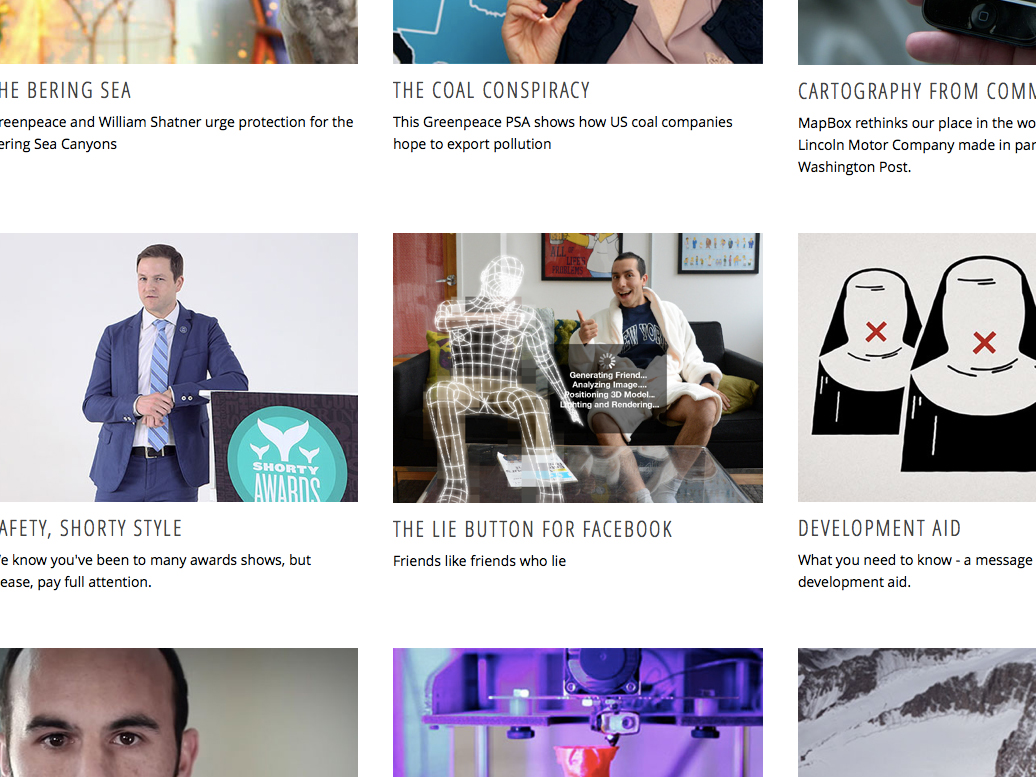
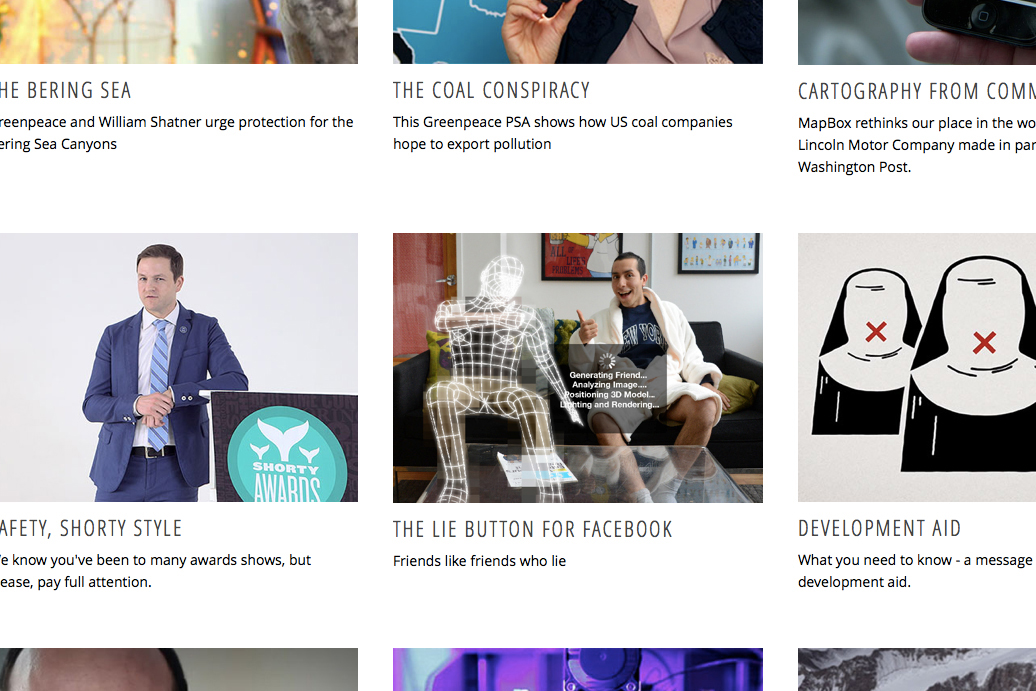
Fixed home-top alignment finally

diff --git a/assets/css/main.css b/assets/css/main.css
@@ -1120,13 +1120,36 @@ button.menu-toggle:before {
 .home-top div:last-of-type * {
   color: #ffffff;
 }
-.home-top div:last-of-type ul {
-  min-height: 400px;
-  border: 4px solid #ffffff;
-}
 .home-top div:last-of-type ul li {
   padding: 6%;
   text-align: center;
+  min-height: 550px;
+  display: -webkit-box;
+  display: -moz-box;
+  display: box;
+  display: -webkit-flex;
+  display: -moz-flex;
+  display: -ms-flexbox;
+  display: flex;
+  -webkit-box-orient: vertical;
+  -moz-box-orient: vertical;
+  box-orient: vertical;
+  -webkit-box-direction: normal;
+  -moz-box-direction: normal;
+  box-direction: normal;
+  -webkit-flex-direction: column;
+  -moz-flex-direction: column;
+  flex-direction: column;
+  -ms-flex-direction: column;
+  -webkit-box-pack: justify;
+  -moz-box-pack: justify;
+  box-pack: justify;
+  -webkit-justify-content: space-between;
+  -moz-justify-content: space-between;
+  -ms-justify-content: space-between;
+  -o-justify-content: space-between;
+  justify-content: space-between;
+  -ms-flex-pack: justify;
 }
 .home-top div:last-of-type ul li h2, .home-top div:last-of-type ul li .post-type-archive-work .work-item h1, .post-type-archive-work .work-item .home-top div:last-of-type ul li h1, .home-top .post-type-archive-work .work-item .home-contact div:last-of-type ul li h3, .post-type-archive-work .work-item .home-contact .home-top div:last-of-type ul li h3, .home-top .home-contact div:last-of-type ul li .post-type-archive-work .work-item h3, .home-contact .home-top div:last-of-type ul li .post-type-archive-work .work-item h3, .home-top .home-contact div:last-of-type .post-type-archive-work .work-item ul li h3, .home-contact .home-top div:last-of-type .post-type-archive-work .work-item ul li h3, .home-top .post-type-archive-work .work-item .home-contact div:last-of-type ul li .outbound-link, .post-type-archive-work .work-item .home-contact .home-top div:last-of-type ul li .outbound-link, .home-top .home-contact div:last-of-type ul li .post-type-archive-work .work-item .outbound-link, .home-contact .home-top div:last-of-type ul li .post-type-archive-work .work-item .outbound-link, .home-top .home-contact div:last-of-type .post-type-archive-work .work-item ul li .outbound-link, .home-contact .home-top div:last-of-type .post-type-archive-work .work-item ul li .outbound-link, .home-top .post-type-archive-work .work-item .home-contact div:last-of-type ul li .twentytwenty-before-label:before, .post-type-archive-work .work-item .home-contact .home-top div:last-of-type ul li .twentytwenty-before-label:before, .home-top .home-contact div:last-of-type ul li .post-type-archive-work .work-item .twentytwenty-before-label:before, .home-contact .home-top div:last-of-type ul li .post-type-archive-work .work-item .twentytwenty-before-label:before, .home-top .home-contact div:last-of-type .post-type-archive-work .work-item ul li .twentytwenty-before-label:before, .home-contact .home-top div:last-of-type .post-type-archive-work .work-item ul li .twentytwenty-before-label:before, .home-top .post-type-archive-work .work-item .home-contact div:last-of-type ul li .twentytwenty-after-label:before, .post-type-archive-work .work-item .home-contact .home-top div:last-of-type ul li .twentytwenty-after-label:before, .home-top .home-contact div:last-of-type ul li .post-type-archive-work .work-item .twentytwenty-after-label:before, .home-contact .home-top div:last-of-type ul li .post-type-archive-work .work-item .twentytwenty-after-label:before, .home-top .home-contact div:last-of-type .post-type-archive-work .work-item ul li .twentytwenty-after-label:before, .home-contact .home-top div:last-of-type .post-type-archive-work .work-item ul li .twentytwenty-after-label:before {
   font-size: 5rem;
@@ -1135,6 +1158,10 @@ button.menu-toggle:before {
 .home-top div:last-of-type ul li h4 {
   font-family: "freight-sans-pro", helvetica, sans-serif;
   text-transform: capitalize;
+}
+.home-top div:last-of-type ul li h3, .home-top div:last-of-type ul li .outbound-link, .home-top div:last-of-type ul li .twentytwenty-before-label:before, .home-top div:last-of-type ul li .twentytwenty-after-label:before {
+  margin: 0;
+  font-size: 3.2rem;
 }
 
 .home-services {
@@ -2088,12 +2115,10 @@ input:focus + .gfield_description, textarea:focus + .gfield_description, .filled
   display: inline-block;
   _display: block;
   *display: block;
-  -webkit-box-shadow: inset 0 0 2px 0 rgba(0, 0, 0, 0.3);
-  -moz-box-shadow: inset 0 0 2px 0 rgba(0, 0, 0, 0.3);
-  box-shadow: inset 0 0 2px 0 rgba(0, 0, 0, 0.3);
   width: 12px;
   height: 12px;
   margin: 5px;
+  border-bottom: 0;
 }
 
 .centered-btns_here a,

diff --git a/assets/sass/pages/_home.scss b/assets/sass/pages/_home.scss
@@ -30,11 +30,16 @@
 				color: $white;
 			}
 			ul {
-				min-height: 400px;
-				border: 4px solid $white;
+				
+				//border: 4px solid rgba($white,0.5);
+
 				li {
 					padding: 6%;
 					text-align: center;
+					min-height: 550px;
+					@include display(flex);
+				@include flex-direction(column);
+				@include justify-content(space-between);
 					h2 {
 						font-size: 5rem;
 						letter-spacing: 5px;
@@ -42,6 +47,10 @@
 					h4 {
 						font-family: $sans;
 						text-transform: capitalize;
+					}
+					h3 {
+						margin: 0;
+						font-size: 3.2rem;
 					}
 				}
 			}

diff --git a/assets/sass/modules/_slider.scss b/assets/sass/modules/_slider.scss
@@ -151,12 +151,13 @@
   display: inline-block;
   _display: block;
   *display: block;
-  -webkit-box-shadow: inset 0 0 2px 0 rgba(0,0,0,.3);
-  -moz-box-shadow: inset 0 0 2px 0 rgba(0,0,0,.3);
-  box-shadow: inset 0 0 2px 0 rgba(0,0,0,.3);
+  //-webkit-box-shadow: inset 0 0 2px 0 rgba(0,0,0,.3);
+  //-moz-box-shadow: inset 0 0 2px 0 rgba(0,0,0,.3);
+  //box-shadow: inset 0 0 2px 0 rgba(0,0,0,.3);
   width: 12px;
   height: 12px;
   margin: 5px;
+  border-bottom: 0;
   }
 
 .centered-btns_here a,

diff --git a/template-parts/content-home.php b/template-parts/content-home.php
@@ -18,8 +18,10 @@
 			$author = get_sub_field('single_author' );
 			?>
 			<li>
-				<h2><?php echo $quote; ?></h2>
+			<h3>&times;</h3>
+			<h2><?php echo $quote; ?></h2> 
 				<h4><?php echo $author; ?></h4>
+				<h3>&times;</h3>
 			</li>
 		<?php endwhile; ?>
 	</ul>
